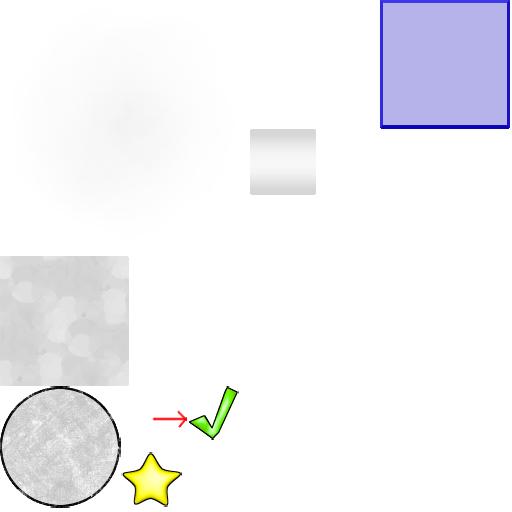
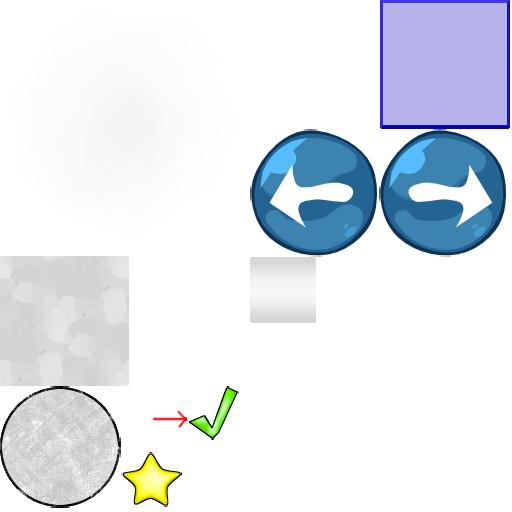
added left and right buttons during the game (only graphical stuff, to give an idea of how to control the game

Changed region(s): [[0.4688, 0.25, 1.0, 0.5312], [0.4688, 0.5938, 0.625, 0.6562]]

diff --git a/superflyingthing-core/src/main/java/com/gemserk/games/superflyingthing/gamestates/PlayGameState.java b/superflyingthing-core/src/main/java/com/gemserk/games/superflyingthing/gamestates/PlayGameState.java
@@ -6,6 +6,7 @@ import com.artemis.Entity;
 import com.badlogic.gdx.Gdx;
 import com.badlogic.gdx.Input.Keys;
 import com.badlogic.gdx.graphics.GL10;
+import com.badlogic.gdx.graphics.g2d.Sprite;
 import com.badlogic.gdx.graphics.g2d.SpriteBatch;
 import com.badlogic.gdx.math.MathUtils;
 import com.badlogic.gdx.math.Vector2;
@@ -23,6 +24,8 @@ import com.gemserk.commons.artemis.templates.EntityTemplate;
 import com.gemserk.commons.gdx.AverageFPS;
 import com.gemserk.commons.gdx.GameStateImpl;
 import com.gemserk.commons.gdx.audio.SoundPlayer;
+import com.gemserk.commons.gdx.gui.Container;
+import com.gemserk.commons.gdx.gui.GuiControls;
 import com.gemserk.commons.gdx.time.TimeStepProviderGameStateImpl;
 import com.gemserk.commons.reflection.Injector;
 import com.gemserk.commons.reflection.InjectorImpl;
@@ -45,6 +48,7 @@ import com.gemserk.games.superflyingthing.levels.RandomLevelGenerator;
 import com.gemserk.games.superflyingthing.preferences.GamePreferences;
 import com.gemserk.games.superflyingthing.preferences.PlayerProfile;
 import com.gemserk.games.superflyingthing.preferences.PlayerProfile.LevelInformation;
+import com.gemserk.games.superflyingthing.resources.GameResources;
 import com.gemserk.games.superflyingthing.scenes.NormalModeSceneTemplate;
 import com.gemserk.games.superflyingthing.scenes.SceneTemplate;
 import com.gemserk.games.superflyingthing.scripts.CountTravelTimeScript;
@@ -57,11 +61,20 @@ import com.gemserk.resources.ResourceManager;
 
 public class PlayGameState extends GameStateImpl {
 
+	private static class Hud {
+
+		public static final String Screen = "Screen";
+
+		public static final String LeftButton = "LeftButton";
+		public static final String RightButton = "RightButton";
+
+	}
+
 	Game game;
 	ResourceManager<String> resourceManager;
 	GamePreferences gamePreferences;
 	SoundPlayer soundPlayer;
-	
+
 	private SpriteBatch spriteBatch;
 
 	// private Box2DCustomDebugRenderer box2dCustomDebugRenderer;
@@ -79,7 +92,6 @@ public class PlayGameState extends GameStateImpl {
 
 	EntityTemplate userMessageTemplate;
 
-
 	private boolean shouldDisposeWorldWrapper;
 
 	private static String[] endMessages = new String[] { "Great Job!", "Nicely Done!", "You made it!", "Good Work!", "You Rock!", };
@@ -89,6 +101,8 @@ public class PlayGameState extends GameStateImpl {
 	private Injector injector;
 
 	RenderLayers renderLayers;
+
+	Container screen;
 
 	@Handles
 	public void toggleFirstBackground(Event e) {
@@ -107,6 +121,29 @@ public class PlayGameState extends GameStateImpl {
 		averageFPS = new AverageFPS();
 		createALotOfStuff();
 		createWorld();
+
+		screen = new Container(Hud.Screen);
+		
+		float buttonScale = Gdx.graphics.getHeight() / 480f;
+
+		Sprite leftButtonSprite = resourceManager.getResourceValue(GameResources.Sprites.LeftButton);
+
+		screen.add(GuiControls.imageButton(leftButtonSprite) //
+				.id(Hud.LeftButton) //
+				.center(0f, 0f) //
+				.size(leftButtonSprite.getWidth() * buttonScale, leftButtonSprite.getHeight() * buttonScale) //
+				.position(10f, 10f) //
+				.build());
+
+		Sprite rightButtonSprite = resourceManager.getResourceValue(GameResources.Sprites.RightButton);
+
+		screen.add(GuiControls.imageButton(rightButtonSprite) //
+				.id(Hud.RightButton) //
+				.center(1f, 0f) //
+				.size(leftButtonSprite.getWidth() * buttonScale, leftButtonSprite.getHeight() * buttonScale) //
+				.position(Gdx.graphics.getWidth() - 10f, 10f) //
+				.build());
+
 	}
 
 	private void createALotOfStuff() {
@@ -366,6 +403,10 @@ public class PlayGameState extends GameStateImpl {
 		Gdx.graphics.getGL10().glClear(GL10.GL_COLOR_BUFFER_BIT);
 
 		worldWrapper.render();
+		
+		spriteBatch.begin();
+		screen.draw(spriteBatch);
+		spriteBatch.end();
 
 		// if (Game.isShowBox2dDebug())
 		// box2dCustomDebugRenderer.render();
@@ -376,7 +417,9 @@ public class PlayGameState extends GameStateImpl {
 	public void update() {
 		averageFPS.update();
 
+		screen.update();
 		inputDevicesMonitor.update();
+		
 		Synchronizers.synchronize(getDelta());
 
 		if (inputDevicesMonitor.getButton("pause").isReleased()) {

diff --git a/superflyingthing-core/src/main/java/com/gemserk/games/superflyingthing/resources/GameResources.java b/superflyingthing-core/src/main/java/com/gemserk/games/superflyingthing/resources/GameResources.java
@@ -11,6 +11,13 @@ import com.gemserk.resources.monitor.FilesMonitor;
  * Declares all resources needed for the game.
  */
 public class GameResources extends LibgdxResourceBuilder {
+	
+	public static class Sprites {
+		
+		public static final String LeftButton = "LeftButtonSprite";
+		public static final String RightButton = "RightButtonSprite";
+		
+	}
 
 	private final FilesMonitor filesMonitor;
 
@@ -88,6 +95,9 @@ public class GameResources extends LibgdxResourceBuilder {
 		spriteAtlas("LaserSprite", "TextureAtlas", "laser-bullet");
 		spriteAtlas("TickSprite", "TextureAtlas", "tick");
 		spriteAtlas("LevelButtonSprite", "TextureAtlas", "level-button");
+		
+		spriteAtlas(Sprites.LeftButton, "TextureAtlas", "button-left");
+		spriteAtlas(Sprites.RightButton, "TextureAtlas", "button-right");
 
 		xmlDocument("RandomLevelTilesDocument", "data/levels/level-tiles-template.svg");
 		

diff --git a/superflyingthing-desktop/src/main/java/com/gemserk/games/superflyingthing/DesktopApplication.java b/superflyingthing-desktop/src/main/java/com/gemserk/games/superflyingthing/DesktopApplication.java
@@ -50,8 +50,8 @@ public class DesktopApplication {
 
 		// config.width = 320;
 		// config.height = 240;
-		// config.width = 480;
-		// config.height = 320;
+		 config.width = 480;
+		 config.height = 320;
 		// config.width = 1024;
 		// config.height = 768;
 
